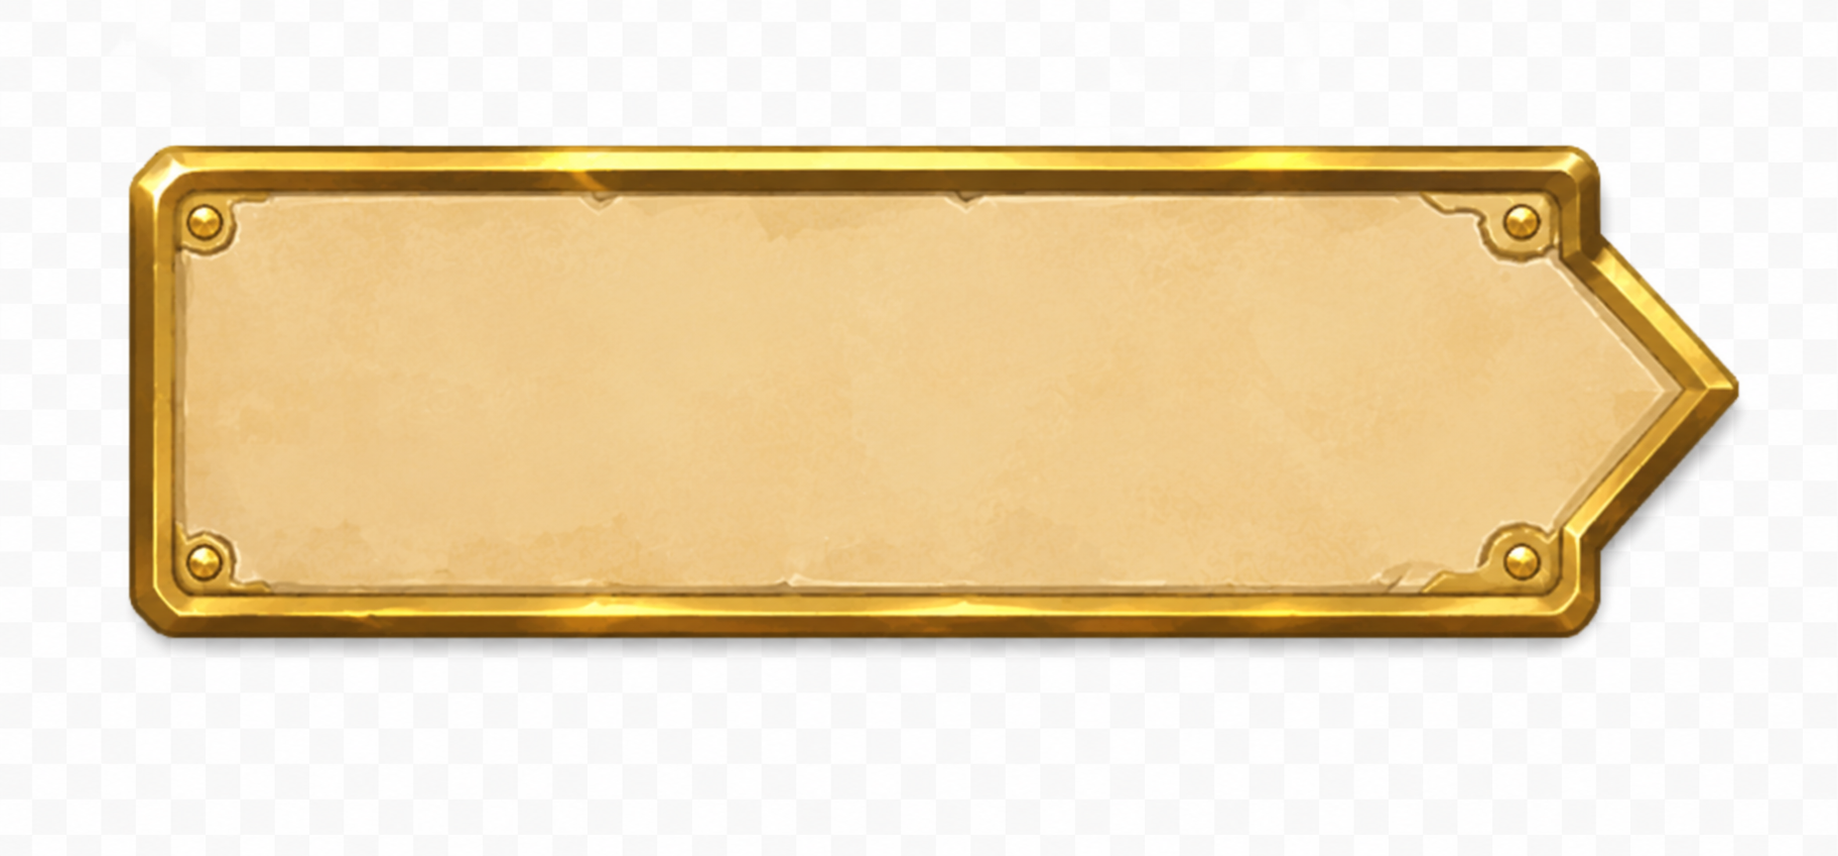
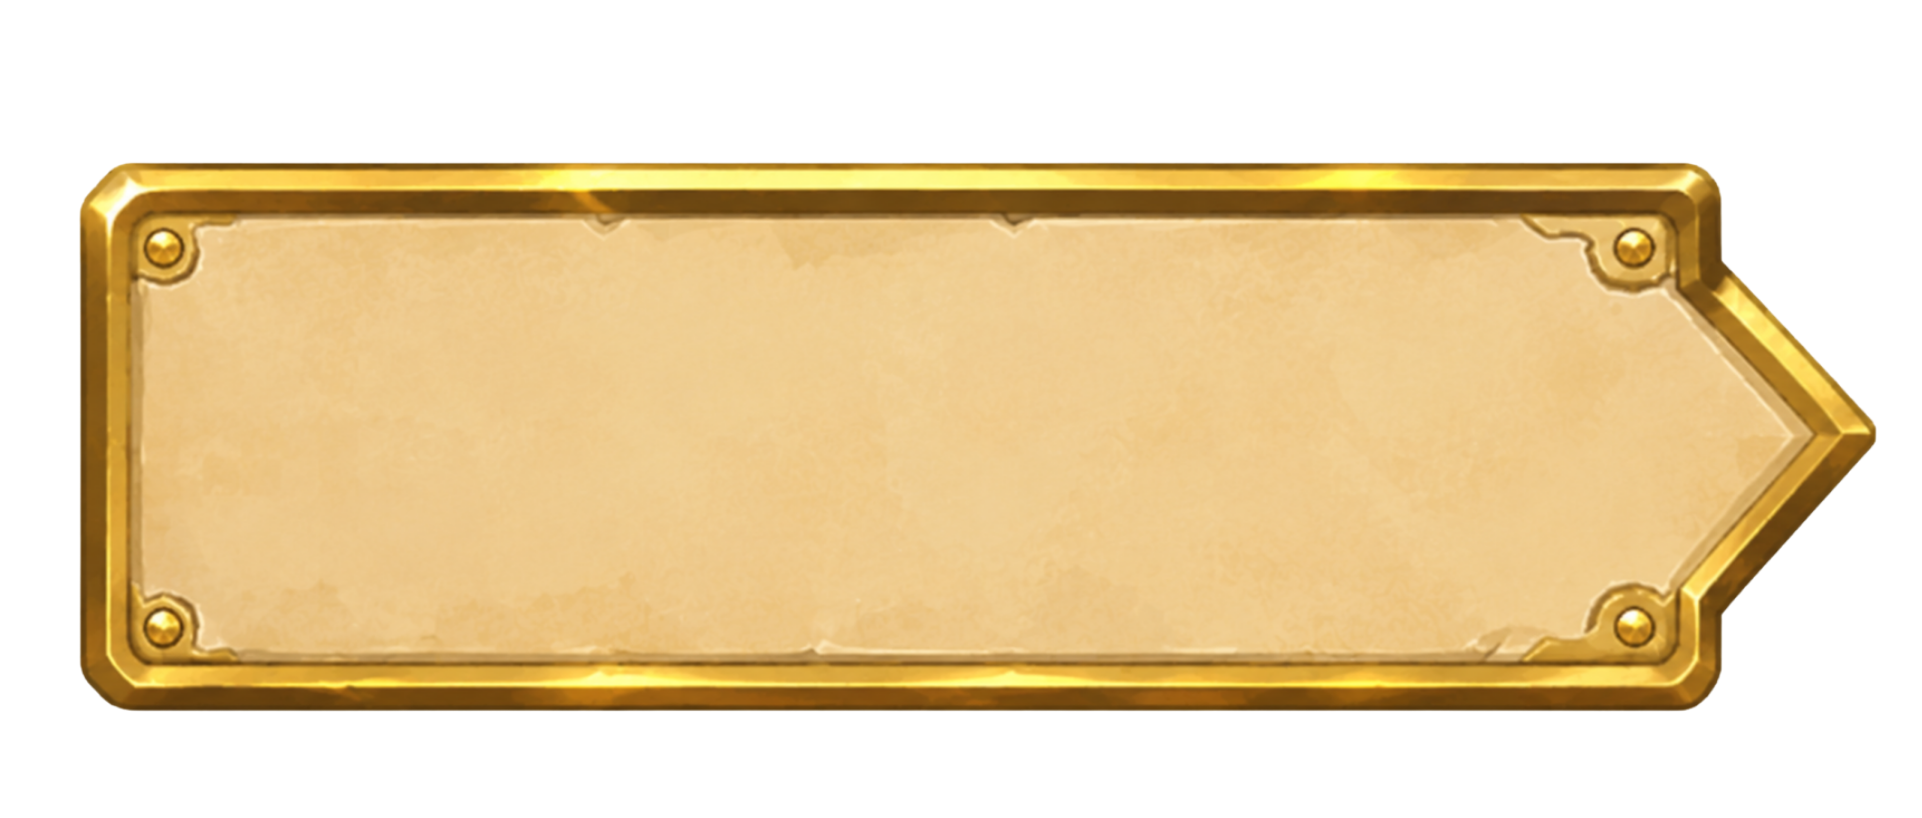
상점 배경 그래픽 배경 제거

Changed region(s): [[0.031, 0.1528, 0.9924, 0.8863]]

diff --git a/style.css b/style.css
@@ -6997,11 +6997,11 @@ body:not(.game-started) .game-wrap {
   background-image: var(--shop-bg-image);
   background-repeat: no-repeat;
   background-position: center center;
-  background-size: 122% 122%;
+  background-size: contain;
 }
 
 .shop-category-btn::before {
-  background-size: 116% 116%;
+  background-size: contain;
 }
 
 .shop-category-btn::after,
@@ -7053,7 +7053,7 @@ body:not(.game-started) .game-wrap {
 }
 
 .shop-item-card::before {
-  transform: scale(1.08);
+  transform: none;
 }
 
 .shop-purchase-popup {
